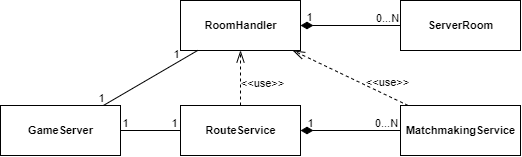
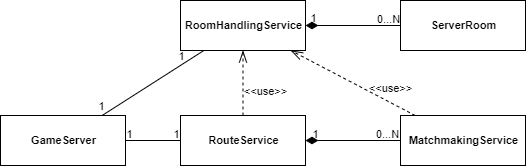
Modified doc to describe RoomHandlingService instead of RoomHandler

diff --git a/doc/report/3-systemArchitecture.tex b/doc/report/3-systemArchitecture.tex
@@ -49,10 +49,10 @@ The GameServer is the main component of the architecture. It is the one that lis
 
 A developer will mostly use the server module of the library working with the interface that this component exposes.
 
-As shown in figure \ref{fig:server_classes} it is connected with two other classes that are the RouteService and the RoomHandler.
+As shown in figure \ref{fig:server_classes} it is connected with two other classes that are the RouteService and the RoomHandlingService.
 
 \bigskip
-\textit{RoomHandler}
+\textit{RoomHandlingService}
 \\
 As the name suggests, the RoomHandler is the component used to manage rooms. It is meant to: 
 \begin{itemize}
@@ -86,8 +86,9 @@ TODO
 \section{Client-Server Interaction}
 The requirements analysis led to the definition of three types of interaction between client and server:
 \begin{enumerate}
-	\item Request-Reponse \\
-	This interaction takes place in those situations where the client makes a request to the server and wait for a specific response: for example getting the list of all joinable rooms. We decided to handle this kind of requests defining a REST protocol as shown in table \ref{table:server_routes}.
+	\item Client to GameServer \\
+	This interaction takes place in those situations where the client makes a request to the server and waits for a specific response: for example getting the list of all joinable rooms. We decided to handle this kind of requests defining a REST protocol as shown in table
+	 \ref{table:server_routes}.
 	\begin{table}[]
 		\begin{tabular}{p{2cm}p{4cm}p{2cm}p{5.5cm}}
 			\textbf{Http Method} & \textbf{Path}	  & \textbf{Payload}  & \textbf{Result}                                                            		\\\\
@@ -100,7 +101,7 @@ The requirements analysis led to the definition of three types of interaction be
 		\end{tabular}
 		\caption{\label{table:server_routes} \textit{Server REST protocol for request-response interaction}}
 	\end{table}
-	\item  Client-Room communication \\
+	\item  Client to Room \\
 	In this case we are in a situation where a client wants to establish a connection with a given a room to both send and receive messages from it. The request-response pattern doesn't work here because now the communication channel must be full-duplex: the server can send data to the client even without a specific client request (for example if the room broadcasts a message to all connected clients).
 	
 	The chosen solution here is the webosckets protocol since it provides the exact described behavior. Specifically, when a client wants to interact with a room, a websocket between that client and the server is created; the messages that the client sends through the socket are redirected to the room and the messages that the room wants to send to that client are forwarded through the socket. 
@@ -109,7 +110,7 @@ The requirements analysis led to the definition of three types of interaction be
 	In order to identify this different kind of messages we decided to define a communication protocol that is used for messages in the websocket.
 	
 	
-	\item Client-Matchmaking communication \\
+	\item Client to Matchmaking \\
 	The last type of interaction is the one that takes place when a client wants to join the matchmaking queue for a given type of room. In this case the client asks the server to be added to the queue and waits to be grouped with other clients. We have decided to use websockets here too since when the client sends the request, the server response is not immediate. The communication must be kept open until the matchmaking service doesn't create the group of client to start the match. Only then the server can respond to the client with a message that contains the information to join the room that will host the game.
 \end{enumerate}
 

diff --git a/doc/report/4-detailedDesign.tex b/doc/report/4-detailedDesign.tex
@@ -42,9 +42,9 @@ Class diagram in figure \ref{fig:server_class_diagram} describes in detail the s
 
 The \texttt{GameServer} class is the facade interface that is exposed to the developer. It internally creates a \texttt{ServerActor} that is the entity that acts as the real server listening for clients requests. This actor creates a \texttt{RouteService} object that is used to know which routes to use and how to handle requests; it also allows to dynamically define new room types that will be used by te server. 
 
-The \texttt{ServerActor} also uses a \texttt{RoomHandler} to create and define rooms from the server. The same RoomHandler used by the RouteService.
+The \texttt{ServerActor} also uses a \texttt{RoomHandlingService} actor to create and define rooms from the server. The same actor is used by the RouteService.
 
-As we described for the server architecture in section \ref{sec:server_arch}, the purpose of the \texttt{RoomHandler} is to manage the active rooms in the applications. Specifically though it doesn't directly create rooms but instead it creates \texttt{RoomActors}: actors used as 'wrappers' for ServerRooms to avoid concurrency issues; more than one client can indeed interact with a single room at the same time, so, in order to avoid race coditions, we decided to make clients communicate with RoomActors that process messages sequentially. Each actor is in charge of notifying clients' actions to the room that is associated with.
+As we described for the server architecture in section \ref{sec:server_arch}, the purpose of the \texttt{RoomHandlingService} is to manage the active rooms in the applications. Specifically though it doesn't directly create rooms but instead it creates \texttt{RoomActors}: actors used as 'wrappers' for ServerRooms to avoid concurrency issues; more than one client can indeed interact with a single room at the same time, so, in order to avoid race coditions, we decided to make clients communicate with RoomActors that process messages sequentially. Each actor is in charge of notifying clients' actions to the room that is associated with.
 
 Each \texttt{ServerRoom} is linked to an actor and keeps track of connected clients (\texttt{Client} class in figure). Clients are uniquely identified by their id and expose a \texttt{send} method that allows to send messages to them. It is important to notice that each room has its own view of clients: the same client connected to different rooms will have a different id in each of them. 
 
